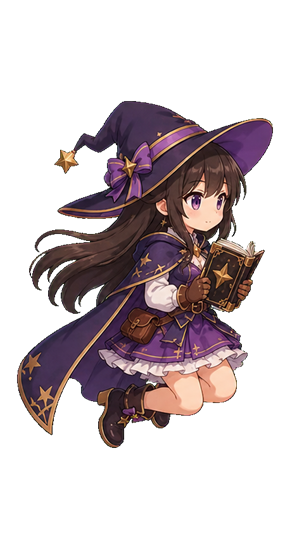
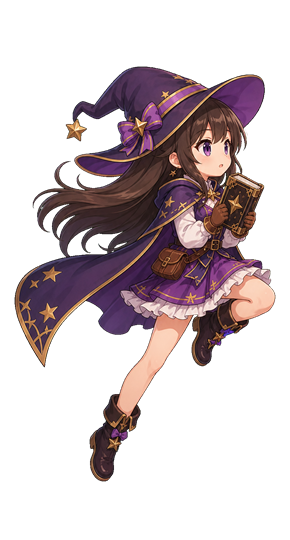
점프포즈 수정, 그림자 조정

diff --git a/BeltScroll/Assets/Editor/BeltScrollSceneBootstrapper.cs b/BeltScroll/Assets/Editor/BeltScrollSceneBootstrapper.cs
@@ -30,7 +30,7 @@ namespace BeltScroll.Editor
         private const float WizardWalkFramesPerSecond = 24f;
         private const float WizardJumpHeight = 1.65f;
         private const float WizardJumpDurationSeconds = 0.58f;
-        private const float CharacterShadowAlpha = 0.55f;
+        private const float CharacterShadowAlpha = 0.72f;
         private static readonly Vector2 CharacterShadowOffset = new Vector2(0f, 0.04f);
         private static readonly Vector2 CharacterShadowScale = new Vector2(0.38f, 0.1f);
         private const float PlayerGroundY = -2.72f;

diff --git a/BeltScroll/Assets/Scripts/BeltScroll/PlayerBeltScrollController.cs b/BeltScroll/Assets/Scripts/BeltScroll/PlayerBeltScrollController.cs
@@ -36,7 +36,7 @@ namespace BeltScroll
         [SerializeField] private SpriteRenderer characterShadowRenderer;
         [SerializeField] private Vector2 characterShadowOffset = new Vector2(0f, 0.04f);
         [SerializeField] private Vector2 characterShadowScale = new Vector2(0.38f, 0.1f);
-        [SerializeField] private float characterShadowAlpha = 0.55f;
+        [SerializeField] private float characterShadowAlpha = 0.72f;
         [SerializeField] private int characterShadowSortingOrder = 450;
 
         private bool facingLeft;

diff --git a/BeltScroll/Videos/FRAME_EXTRACTION_WORKFLOW.md b/BeltScroll/Videos/FRAME_EXTRACTION_WORKFLOW.md
@@ -40,6 +40,18 @@ The black/white opacity preview output is:
 Videos/movecycle-dreamina-2026-05-06_wizard_front24_bw_opacity_preview
 ```
 
+The full-frame dump for choosing a run loop is:
+
+```text
+Videos/movecycle-dreamina-2026-05-06_run_full_frames
+```
+
+The current run-loop crop sheet candidate is:
+
+```text
+Videos/movecycle-dreamina-2026-05-06_run_111_126_wizard_crop_4x4/wizard_run_111_126_grid_4x4.png
+```
+
 Current result:
 
 - Source video: `Videos/movecycle-dreamina-2026-05-06.MP4`
@@ -69,6 +81,11 @@ Current result:
   - `02_white_background.png`
   - `03_transparent_from_black_white.png`
   - `opacity_mask_from_black_white.png`
+- Run-loop selection dump: `299` full-frame PNGs, source samples `2..300`
+- Run-loop review sheets: `5`, under `run_full_frames/review_sheets`
+- Run-loop crop candidate: output frames `111..126`, source samples `112..127`
+- Run-loop crop rectangle: `x=200, y=65, width=380, height=590`
+- Run-loop sheet: `4x4`, `1520x2360`
 
 Samples `0` and `1` are excluded because their brightness differs from the
 rest of the video.
@@ -337,6 +354,71 @@ Direct split command example:
 
 ## General Extraction Notes
 
+## Full Frame Dump For Run Loop Selection
+
+This pass extracts every sampled full-frame image so a run loop range can be
+chosen manually. It does not remove duplicate-looking poses.
+
+Output:
+
+```text
+Videos/movecycle-dreamina-2026-05-06_run_full_frames
+```
+
+Command:
+
+```powershell
+& {
+  $env:DOTNET_CLI_HOME = (Resolve-Path .\.codex-tmp\dotnet-home).Path
+  $env:NUGET_PACKAGES = (Resolve-Path .\.codex-tmp\nuget).Path
+  $env:DOTNET_SKIP_FIRST_TIME_EXPERIENCE = '1'
+  $env:DOTNET_CLI_TELEMETRY_OPTOUT = '1'
+
+  dotnet .\.codex-tmp\FrameExtractor\bin\Release\net10.0-windows\FrameExtractor.dll `
+    --video .\Videos\movecycle-dreamina-2026-05-06.MP4 `
+    --out .\Videos\movecycle-dreamina-2026-05-06_run_full_frames `
+    --sample-fps 30 `
+    --threshold -1 `
+    --min-stddev 2.0 `
+    --seek-delay-ms 140 `
+    --start-sample 2
+}
+```
+
+Settings and result:
+
+- Samples `0` and `1` are ignored.
+- Source sample range: `2..300`
+- Saved frames: `299`
+- Output file pattern: `unique_####_sample_#####_t####.###s.png`
+- `manifest.csv` maps output frame number to source sample and timestamp.
+- `review_sheets/` contains 60-frame thumbnail sheets for visual range picking.
+
+## Run 111-126 Wizard Crop Sheet
+
+After manually keeping only output frames `111..126`, the second purple wizard
+was cropped from each remaining full-frame PNG and merged into a `4x4` sheet.
+
+Output:
+
+```text
+Videos/movecycle-dreamina-2026-05-06_run_111_126_wizard_crop_4x4
+```
+
+Settings:
+
+- Source files: `unique_0111...png` through `unique_0126...png`
+- Source samples: `112..127`
+- Crop: `x=200, y=65, width=380, height=590`
+- Individual cropped frames: `16`
+- Sheet columns: `4`
+- Sheet rows: `4`
+- Sheet size: `1520x2360`
+- Sheet order: left-to-right, top-to-bottom
+- Sheet file: `wizard_run_111_126_grid_4x4.png`
+
+## General Extraction Notes
+
 For a manually selected source sample range, use:
 
 ```powershell
@@ -366,6 +448,8 @@ Videos/movecycle-dreamina-2026-05-06_wizard_walk_cycle_front24_grid_6x4
 Videos/movecycle-dreamina-2026-05-06_wizard_walk_cycle_front24_grid_6x4_cleaned_bleed
 Videos/movecycle-dreamina-2026-05-06_wizard_front24_alpha_split
 Videos/movecycle-dreamina-2026-05-06_wizard_front24_bw_opacity_preview
+Videos/movecycle-dreamina-2026-05-06_run_full_frames
+Videos/movecycle-dreamina-2026-05-06_run_111_126_wizard_crop_4x4
 ```
 
 The source video and this workflow document are retained.
